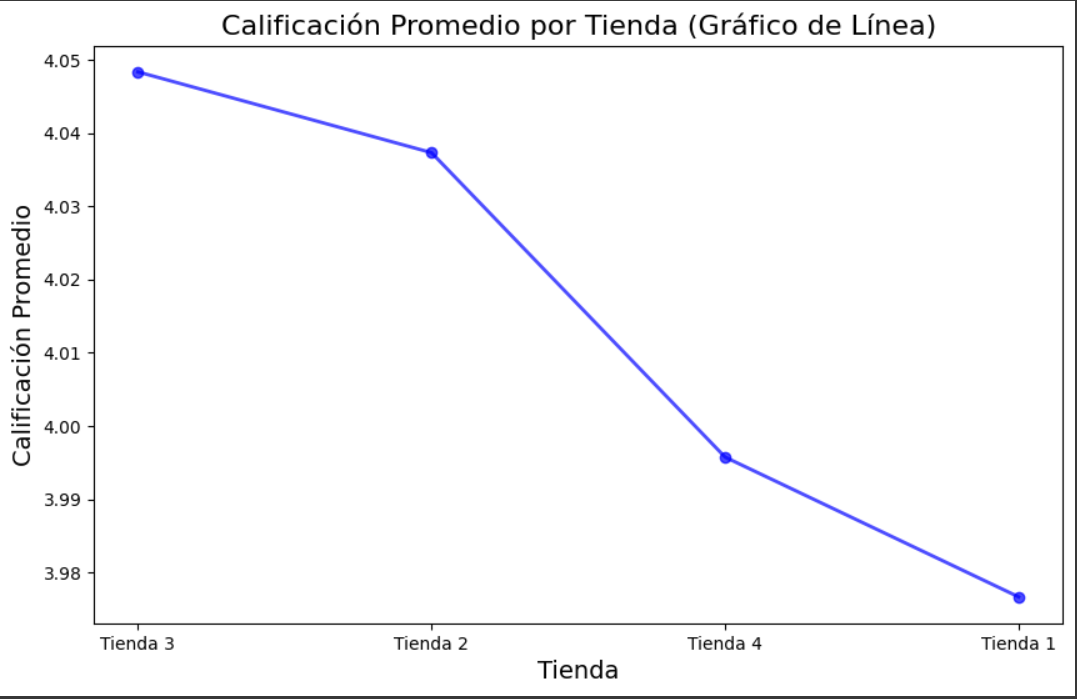
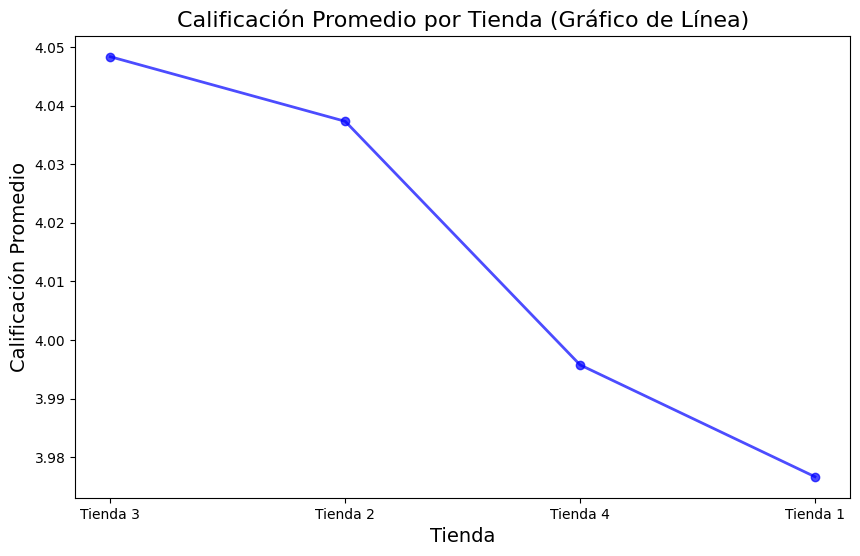
.

diff --git a/README.md b/README.md
@@ -74,19 +74,19 @@ Este gráfico muestra las ventas de los productos por categoria, ayudando a iden
 
 Este gráfico muestra la calificación promedio que tiene cada tienda, lo cual nos permite conocer la experiencia del cliente al realizar una compra y como la tienda es calificada.
 
-|[Gráfico de la Calificación promedia por tienda](https://github.com/klintfox/one-alura-store/blob/main/captures/g3.PNG)
+![Gráfico de la Calificación promedia por tienda](https://github.com/klintfox/one-alura-store/blob/main/captures/g3.PNG)
 
 ### Gráfico 4: Productos más o menos vendidos
 
 Este gráfico muestra los 5 productos más y menos vendidos en cada tienda. Los productos están clasificados según la cantidad de ventas, lo que permite visualizar cuáles son los más y menos exitosos en cada tienda.
 
-|[Gráfico de los productos más y menos vendidos](https://github.com/klintfox/one-alura-store/blob/main/captures/g4.PNG)
+![Gráfico de los productos más y menos vendidos](https://github.com/klintfox/one-alura-store/blob/main/captures/g4.PNG)
 
 ### Gráfico 5: Costo de envío promedio por tienda
 
 Este gráfico muestra el costo promedio de envío por tienda.
 
-|[Gráfico del costo promedio de envío por tienda](https://github.com/klintfox/one-alura-store/blob/main/captures/g5.PNG)
+![Gráfico del costo promedio de envío por tienda](https://github.com/klintfox/one-alura-store/blob/main/captures/g5.PNG)
 
 
 ### Insights:
